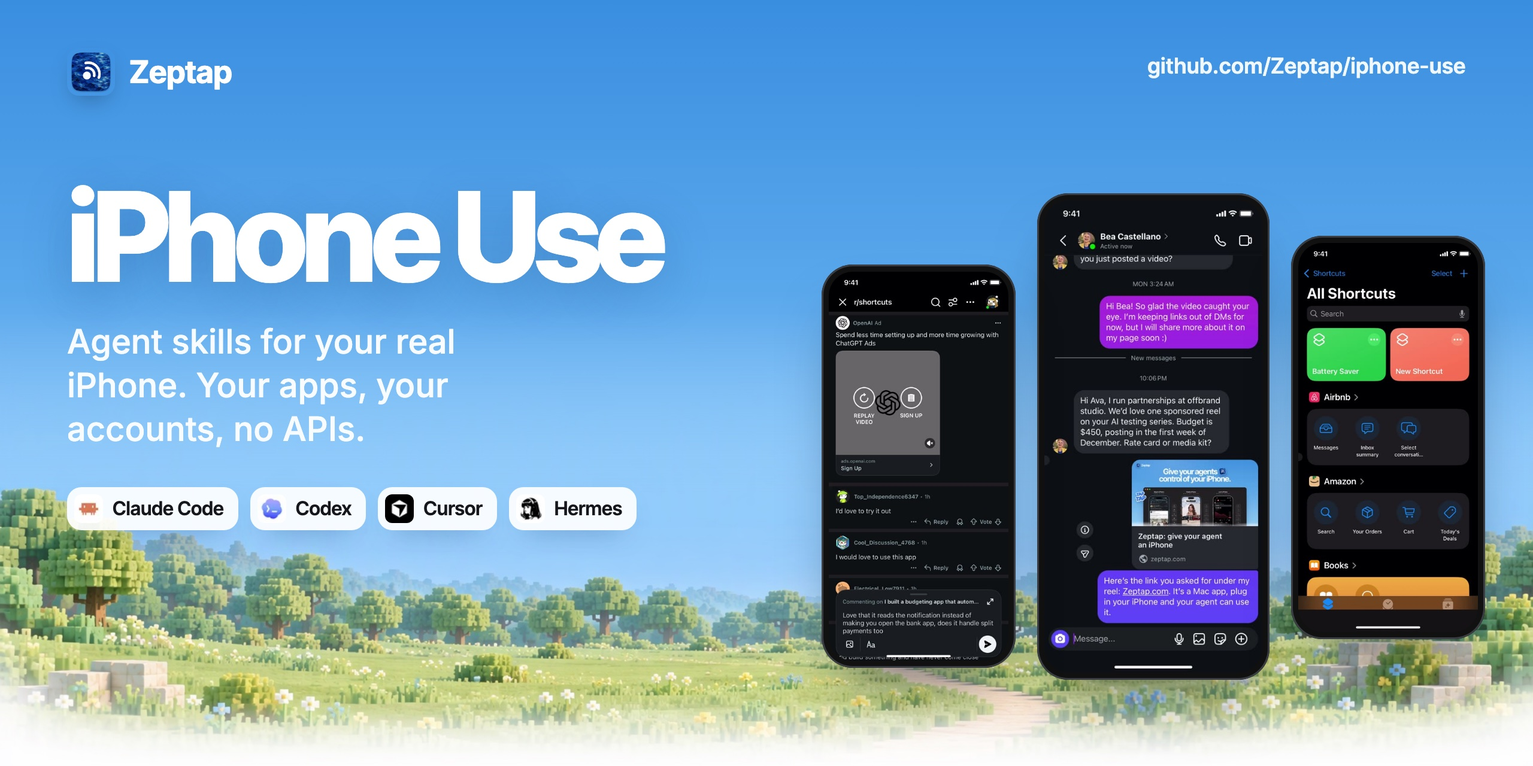
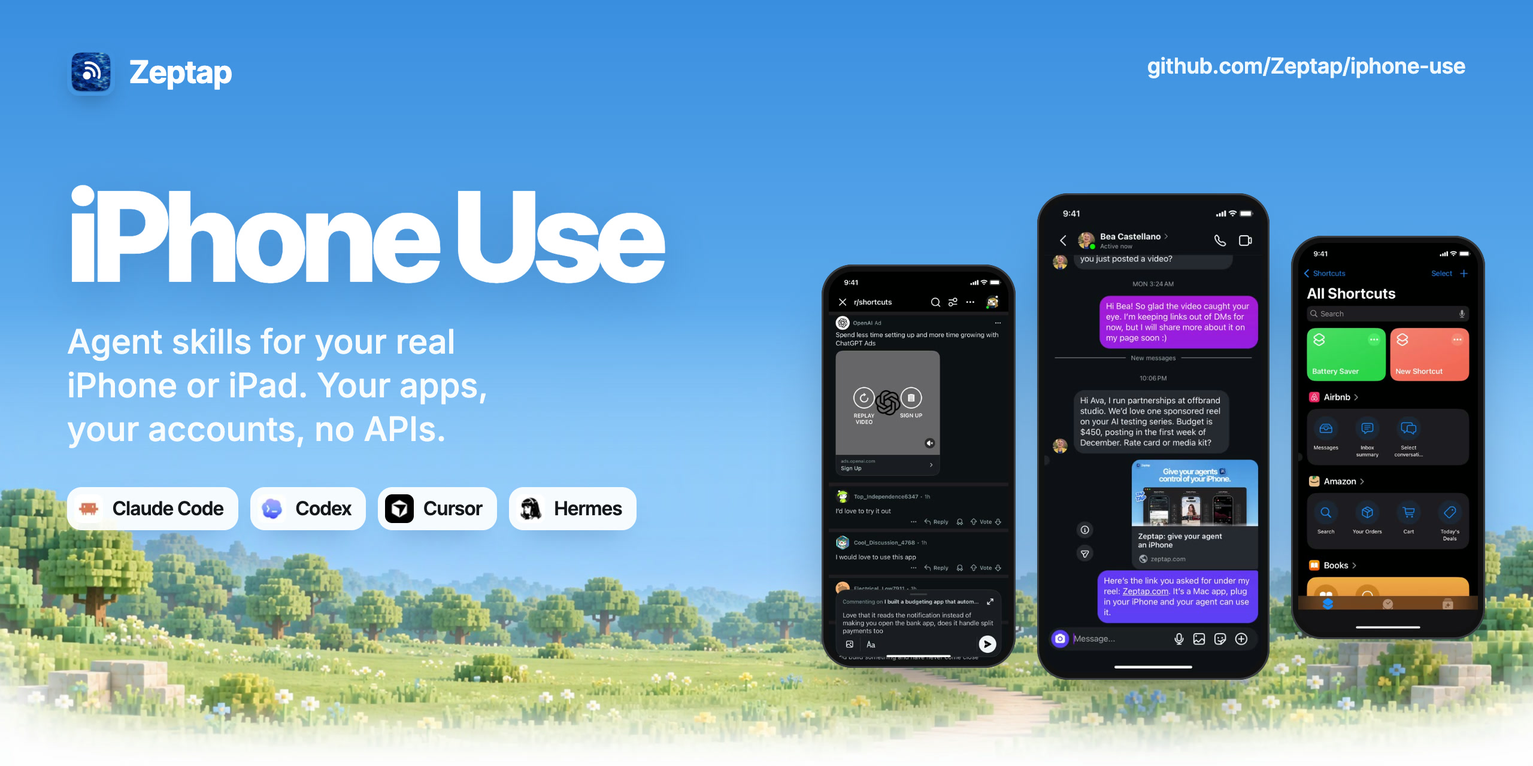
Sync README with zeptap.com/skills, iPhone or iPad copy
- Every skill name links to its live page on zeptap.com/skills
- Fuller, keyword-rich descriptions; drop the Try saying column
- iPhone or iPad copy, up to 5 devices at once, iPad FAQs
- ipad-use: searchable description line (body unchanged)
- Banner and social preview say iPhone or iPad
- Plugin 1.1.0, homepage zeptap.com/skills

Changed region(s): [[0.0312, 0.4688, 0.3125, 0.5938]]

diff --git a/README.md b/README.md
@@ -1,23 +1,24 @@
 <p align="center">
-  <a href="https://zeptap.com/?utm_source=gh"><img src="assets/banner.jpg" alt="iPhone Use. Agent skills for your real iPhone. Your apps, your accounts, no APIs." width="100%"></a>
+  <a href="https://zeptap.com/?utm_source=gh"><img src="assets/banner.jpg" alt="iPhone Use. Agent skills for your real iPhone or iPad. Your apps, your accounts, no APIs." width="100%"></a>
 </p>
 
-<h3 align="center">Your AI agent can now use your iPhone.</h3>
+<h3 align="center">Your AI agent can now use your iPhone or iPad.</h3>
 
 <p align="center">
-  Skills that teach Claude Code, Codex, Cursor, Hermes or any MCP agent to do real jobs on your real iPhone.<br>
-  Your apps, your logged-in accounts, no APIs to connect.
+  37 open skills that teach Claude Code, Codex, Cursor, Hermes, OpenClaw or any MCP agent to do real jobs on your real iPhone or iPad.<br>
+  Your apps, your logged-in accounts, no APIs to connect. Up to 5 devices at once.
 </p>
 
 <p align="center">
   <a href="https://zeptap.com/?utm_source=gh"><b>zeptap.com</b></a> ·
-  <a href="#skills">Browse skills</a> ·
-  <a href="https://zeptap.com/docs?utm_source=gh">Docs</a> ·
+  <a href="https://zeptap.com/skills?utm_source=gh">Browse all skills</a> ·
+  <a href="https://zeptap.com/docs">Docs</a> ·
   <a href="https://github.com/Zeptap/releases/releases/latest/download/Zeptap.dmg">Download for Mac</a>
 </p>
 
 <p align="center">
   <img alt="Skills" src="https://img.shields.io/badge/skills-37-1F6FEB">
+  <img alt="iPhone and iPad" src="https://img.shields.io/badge/iPhone%20%7C%20iPad-real%20devices-111111">
   <img alt="Claude Code" src="https://img.shields.io/badge/Claude%20Code-ready-D97757">
   <img alt="Codex" src="https://img.shields.io/badge/Codex-ready-111111">
   <img alt="Cursor" src="https://img.shields.io/badge/Cursor-ready-3B3B3B">
@@ -29,27 +30,28 @@
 
 ## Why your iPhone
 
-Your life already runs on your phone. Your Instagram, TikTok and Reddit, your DMs, your banking, delivery and travel apps, the app you're building. Most of it has no API, or an API that won't let an agent do the real thing.
+Your life already runs on your phone and tablet. Your Instagram, TikTok and Reddit, your DMs, your delivery and travel apps, your notes, the app you're building. Most of it has no API, or an API that won't let an agent do the real thing.
 
-**Zeptap** is a Mac app that connects your iPhone to your agent. Plug the phone in and your agent sees the screen, opens apps, taps, scrolls and types, inside the accounts you're already logged into. These skills give it the know-how for specific jobs, from warming up a new TikTok to testing your app's sign-up flow.
+**Zeptap** is a Mac app that connects your iPhone or iPad to your agent. Plug it in and your agent sees the screen, opens apps, taps, scrolls and types, inside the accounts you're already logged into. These skills give it the know-how for specific jobs, from warming up a new TikTok to testing your app's sign-up flow.
 
-- **A real iPhone.** Not a simulator, not a cloud phone.
-- **No setup pain.** No Xcode, no developer account, nothing installed on the phone. About two minutes.
-- **Any agent.** Claude Code, Codex, Cursor, Hermes, OpenClaw or any MCP client.
+- **A real iPhone or iPad.** Not a simulator, not an emulator, not a cloud phone.
+- **Up to 5 devices at once.** Run several iPhones and iPads side by side from one Mac.
+- **No setup pain.** No Xcode, no developer account, nothing installed on the device. About two minutes.
+- **Any agent.** Claude Code, Codex, Cursor, Hermes, OpenClaw or any MCP client, on the plan you already pay for.
 - **Your accounts.** It works in the apps you already use, as you.
 
 ## See it run
 
-Real recordings from a real iPhone, sped up.
+Real recordings from a real iPhone, sped up. Tap one to open its page.
 
 <table>
-<tr><td align="center"><img src="assets/demos/tiktok-warmup.gif" width="240" alt="TikTok warm-up running on a real iPhone"><br><sub><b>TikTok warm-up</b></sub></td><td align="center"><img src="assets/demos/reddit-karma-builder.gif" width="240" alt="Reddit karma builder running on a real iPhone"><br><sub><b>Reddit karma builder</b></sub></td><td align="center"><img src="assets/demos/instagram-comment-to-dm.gif" width="240" alt="Comment to DM running on a real iPhone"><br><sub><b>Comment to DM</b></sub></td></tr>
-<tr><td align="center"><img src="assets/demos/short-video-cross-poster.gif" width="240" alt="Cross-poster running on a real iPhone"><br><sub><b>Cross-poster</b></sub></td><td align="center"><img src="assets/demos/ios-real-device-testing.gif" width="240" alt="Real iPhone testing running on a real iPhone"><br><sub><b>Real iPhone testing</b></sub></td><td align="center"><img src="assets/demos/iphone-shortcuts-builder.gif" width="240" alt="Shortcuts builder running on a real iPhone"><br><sub><b>Shortcuts builder</b></sub></td></tr>
+<tr><td align="center"><a href="https://zeptap.com/skills/tiktok-warmup?utm_source=gh"><img src="assets/demos/tiktok-warmup.gif" width="240" alt="TikTok warm-up running on a real iPhone"></a><br><sub><b>TikTok warm-up</b></sub></td><td align="center"><a href="https://zeptap.com/skills/reddit-karma-builder?utm_source=gh"><img src="assets/demos/reddit-karma-builder.gif" width="240" alt="Reddit karma builder running on a real iPhone"></a><br><sub><b>Reddit karma builder</b></sub></td><td align="center"><a href="https://zeptap.com/skills/instagram-comment-to-dm?utm_source=gh"><img src="assets/demos/instagram-comment-to-dm.gif" width="240" alt="Comment to DM running on a real iPhone"></a><br><sub><b>Comment to DM</b></sub></td></tr>
+<tr><td align="center"><a href="https://zeptap.com/skills/short-video-cross-poster?utm_source=gh"><img src="assets/demos/short-video-cross-poster.gif" width="240" alt="Cross-poster running on a real iPhone"></a><br><sub><b>Cross-poster</b></sub></td><td align="center"><a href="https://zeptap.com/skills/ios-real-device-testing?utm_source=gh"><img src="assets/demos/ios-real-device-testing.gif" width="240" alt="Real iPhone testing running on a real iPhone"></a><br><sub><b>Real iPhone testing</b></sub></td><td align="center"><a href="https://zeptap.com/skills/iphone-shortcuts-builder?utm_source=gh"><img src="assets/demos/iphone-shortcuts-builder.gif" width="240" alt="Shortcuts builder running on a real iPhone"></a><br><sub><b>Shortcuts builder</b></sub></td></tr>
 </table>
 
 ## Quick start
 
-**1. Get Zeptap and plug in your iPhone.** [Download for Mac](https://github.com/Zeptap/releases/releases/latest/download/Zeptap.dmg), open it, connect your iPhone with a cable. ([Setup guide](https://zeptap.com/docs/get-started/setup?utm_source=gh))
+**1. Get Zeptap and plug in your iPhone or iPad.** [Download for Mac](https://github.com/Zeptap/releases/releases/latest/download/Zeptap.dmg), open it and connect your device with a cable. ([Setup guide](https://zeptap.com/docs/get-started/setup?utm_source=gh))
 
 **2. Add the skills to your agent.**
 
@@ -59,6 +61,7 @@ npx skills add zeptap/iphone-use
 
 # or just one
 npx skills add zeptap/iphone-use --skill reddit-karma-builder
+npx skills add zeptap/iphone-use --skill ipad-use
 ```
 
 In Claude Code you can also add this repo as a plugin marketplace:
@@ -73,91 +76,91 @@ In Claude Code you can also add this repo as a plugin marketplace:
 ```
 Warm up my new TikTok for my budgeting app
 Find people on Reddit asking for a tool like mine
-Test my sign-up flow on my iPhone and tell me what breaks
+Open Goodnotes on my iPad and export today's notes as a PDF
 ```
 
 ## Skills
 
-Every skill is a plain `SKILL.md` your agent reads. Each one asks a few setup questions the first time, then does the job the same careful way every run.
+Every skill is a plain `SKILL.md` your agent reads. Each one asks a few setup questions the first time, then does the job the same careful way every run. Tap a skill's name for its page on [zeptap.com/skills](https://zeptap.com/skills?utm_source=gh), or the id below it for the file.
 
 ### 🌱 Warm up and grow
 
-New accounts that act like a real person, so your first posts actually get seen.
+New accounts, quiet accounts and accounts that need to show up every day, warmed up and grown like a real person would. [See them on zeptap.com ↗](https://zeptap.com/skills/grow?utm_source=gh)
 
-|  | Skill | What it does | Try saying |
-|---|---|---|---|
-| <img src="assets/icons/instagram-warmup.png" width="44" alt=""> | **[Instagram warm-up](skills/instagram-warmup/SKILL.md)** | Warm up a new Instagram account so your first Reel actually gets seen. | <sub>“Warm up my new Instagram account for home workouts”</sub> |
-| <img src="assets/icons/tiktok-warmup.png" width="44" alt=""> | **[TikTok warm-up](skills/tiktok-warmup/SKILL.md)** | Warm up a new TikTok account so your first video actually gets views. | <sub>“Warm up my new TikTok for my budgeting app”</sub> |
-| <img src="assets/icons/reddit-karma-builder.png" width="44" alt=""> | **[Reddit karma builder](skills/reddit-karma-builder/SKILL.md)** | Build Reddit karma on a new account, one helpful comment at a time. | <sub>“Build karma on my new Reddit account”</sub> |
-| <img src="assets/icons/niche-engagement.png" width="44" alt=""> | **[Niche engagement](skills/niche-engagement/SKILL.md)** | Show up in your niche every day with likes and comments that sound like you. | <sub>“Spend 15 minutes liking and commenting in my niche”</sub> |
-| <img src="assets/icons/linkedin-engagement.png" width="44" alt=""> | **[LinkedIn engagement](skills/linkedin-engagement/SKILL.md)** | Get on the radar of the people you want to reach on LinkedIn. | <sub>“Comment on posts from growth leaders today”</sub> |
+|  | Skill | What it does |
+|---|---|---|
+| <img src="assets/icons/instagram-warmup.png" width="48" alt=""> | **[Instagram warm-up](https://zeptap.com/skills/instagram-warmup?utm_source=gh)**<br><sub>[`instagram-warmup`](skills/instagram-warmup/SKILL.md)</sub> | Automates the Instagram warm-up for a new or dormant account over about 7 days. One short session a day watches niche Reels, then slowly adds likes, follows, saves and comments, set up for your target country, language and time zone. Tells you when to post your first Reel and whether the account is healthy. |
+| <img src="assets/icons/tiktok-warmup.png" width="48" alt=""> | **[TikTok warm-up](https://zeptap.com/skills/tiktok-warmup?utm_source=gh)**<br><sub>[`tiktok-warmup`](skills/tiktok-warmup/SKILL.md)</sub> | Warms up a new TikTok account in about 5 days so the For You page learns your niche. Daily sessions watch niche videos to the end, then add search, likes, follows and a few real comments for your target country and language. Ends with the 700-view health test before you post. |
+| <img src="assets/icons/reddit-karma-builder.png" width="48" alt=""> | **[Reddit karma builder](https://zeptap.com/skills/reddit-karma-builder?utm_source=gh)**<br><sub>[`reddit-karma-builder`](skills/reddit-karma-builder/SKILL.md)</sub> | Builds Reddit karma and trust on a new account, or several, with a phased karma ladder. Helpful comments in subreddits picked from your niche, each sub's rules read first, daily caps and shadowban checks, until the account can post and mention your product. |
+| <img src="assets/icons/niche-engagement.png" width="48" alt=""> | **[Niche engagement](https://zeptap.com/skills/niche-engagement?utm_source=gh)**<br><sub>[`niche-engagement`](skills/niche-engagement/SKILL.md)</sub> | Daily Instagram and TikTok engagement in your niche. Finds fresh posts from the right creators, likes and saves the good ones and leaves comments you approve, within daily caps, so the people you want to reach notice your account. |
+| <img src="assets/icons/linkedin-engagement.png" width="48" alt=""> | **[LinkedIn engagement](https://zeptap.com/skills/linkedin-engagement?utm_source=gh)**<br><sub>[`linkedin-engagement`](skills/linkedin-engagement/SKILL.md)</sub> | LinkedIn engagement from your own profile. Tell it the titles, companies and people you want to reach, and it finds their fresh posts, reacts and leaves 2 to 5 thoughtful comments a day in your voice, each one approved by you. |
 
 ### 🔎 Research
 
-Read Reddit, TikTok and Instagram like an analyst. Buyers, hooks, rivals and what people complain about.
+Read Instagram, TikTok, Reddit and the App Store like an analyst. Hooks, rivals, Reddit threads, buyers and what people complain about. [See them on zeptap.com ↗](https://zeptap.com/skills/research?utm_source=gh)
 
-|  | Skill | What it does | Try saying |
-|---|---|---|---|
-| <img src="assets/icons/competitor-content-check.png" width="44" alt=""> | **[Competitor content check](skills/competitor-content-check/SKILL.md)** | See which posts are winning for your competitors, and why. | <sub>“What's working for Glossier on Instagram right now?”</sub> |
-| <img src="assets/icons/ad-creative-scout.png" width="44" alt=""> | **[Ad creative scout](skills/ad-creative-scout/SKILL.md)** | See the Instagram ads your customers see, and get ideas for your own. | <sub>“What ads are my competitors running?”</sub> |
-| <img src="assets/icons/reddit-research.png" width="44" alt=""> | **[Reddit research](skills/reddit-research/SKILL.md)** | Find out what Reddit really thinks about anything, from the last 30 days. | <sub>“What do founders recommend for cold email?”</sub> |
-| <img src="assets/icons/reddit-lead-finder.png" width="44" alt=""> | **[Reddit lead finder](skills/reddit-lead-finder/SKILL.md)** | Find people on Reddit asking for exactly what you sell, and answer them first. | <sub>“Find people on Reddit asking for a tool like mine”</sub> |
-| <img src="assets/icons/weekly-creator-report.png" width="44" alt=""> | **[Weekly creator report](skills/weekly-creator-report/SKILL.md)** | Your TikTok and Instagram numbers in one weekly note, with what to post next. | <sub>“How did my TikTok do this week?”</sub> |
-| <img src="assets/icons/content-gap-finder.png" width="44" alt=""> | **[Content gap finder](skills/content-gap-finder/SKILL.md)** | Find the video your audience keeps asking for that nobody has made well. | <sub>“What video should I make that nobody has made well?”</sub> |
-| <img src="assets/icons/hook-and-format-scout.png" width="44" alt=""> | **[Hook and format scout](skills/hook-and-format-scout/SKILL.md)** | Fresh hook ideas from the TikToks and Reels winning in your niche right now. | <sub>“What hooks are working for budgeting apps?”</sub> |
-| <img src="assets/icons/content-ideas-from-comments.png" width="44" alt=""> | **[Ideas from comments](skills/content-ideas-from-comments/SKILL.md)** | Turn the questions in viral comments into your next video ideas. | <sub>“Give me video ideas from comments in my niche”</sub> |
-| <img src="assets/icons/app-onboarding-teardown.png" width="44" alt=""> | **[Onboarding teardown](skills/app-onboarding-teardown/SKILL.md)** | See exactly how top apps onboard new users and sell their paywall. | <sub>“Walk me through Duolingo's onboarding”</sub> |
+|  | Skill | What it does |
+|---|---|---|
+| <img src="assets/icons/competitor-content-check.png" width="48" alt=""> | **[Competitor content check](https://zeptap.com/skills/competitor-content-check?utm_source=gh)**<br><sub>[`competitor-content-check`](skills/competitor-content-check/SKILL.md)</sub> | Social media competitor analysis for Instagram Reels and TikTok. Ranks each rival's latest posts by views, breaks down the hook, format, length, audio and call to action, and saves a swipe file of what to copy. |
+| <img src="assets/icons/ad-creative-scout.png" width="48" alt=""> | **[Ad creative scout](https://zeptap.com/skills/ad-creative-scout?utm_source=gh)**<br><sub>[`ad-creative-scout`](skills/ad-creative-scout/SKILL.md)</sub> | An ad spy tool for the Instagram ads your buyers actually see. Primes your account like a buyer in your niche, collects sponsored Reels, Stories and feed ads with their hook, offer and call to action, and turns the winners into 3 static ad concepts. |
+| <img src="assets/icons/reddit-research.png" width="48" alt=""> | **[Reddit research](https://zeptap.com/skills/reddit-research?utm_source=gh)**<br><sub>[`reddit-research`](skills/reddit-research/SKILL.md)</sub> | Reddit research from the last 30 days, read in the signed-in app. Searches your question several ways, reads the busiest threads and returns what people want, verbatim quotes, tools they praise and hate, and live threads worth answering. |
+| <img src="assets/icons/reddit-lead-finder.png" width="48" alt=""> | **[Reddit lead finder](https://zeptap.com/skills/reddit-lead-finder?utm_source=gh)**<br><sub>[`reddit-lead-finder`](skills/reddit-lead-finder/SKILL.md)</sub> | Reddit lead generation from your own account. Finds people asking right now for a product like yours, scores each thread for buying intent, flags threads that also rank on Google, and drafts a reply that helps first and mentions your product second, disclosed. |
+| <img src="assets/icons/weekly-creator-report.png" width="48" alt=""> | **[Weekly creator report](https://zeptap.com/skills/weekly-creator-report?utm_source=gh)**<br><sub>[`weekly-creator-report`](skills/weekly-creator-report/SKILL.md)</sub> | TikTok analytics and Instagram insights in one weekly report. Reads TikTok Studio and Instagram's professional dashboard on your own accounts and writes up the numbers, your best post, why it worked and what to post next. |
+| <img src="assets/icons/content-gap-finder.png" width="48" alt=""> | **[Content gap finder](https://zeptap.com/skills/content-gap-finder?utm_source=gh)**<br><sub>[`content-gap-finder`](skills/content-gap-finder/SKILL.md)</sub> | Finds a video topic with proven demand and weak supply. Reads how people describe a problem on Reddit, checks what TikTok and Instagram show for those exact words, and returns the gap, a format to copy and three hooks. |
+| <img src="assets/icons/hook-and-format-scout.png" width="48" alt=""> | **[Hook and format scout](https://zeptap.com/skills/hook-and-format-scout?utm_source=gh)**<br><sub>[`hook-and-format-scout`](skills/hook-and-format-scout/SKILL.md)</sub> | Finds the hooks and formats winning in your niche this week on TikTok and Instagram. Reads the top posts' opening lines, formats, sounds and view counts, then writes a hook for your own product. |
+| <img src="assets/icons/content-ideas-from-comments.png" width="48" alt=""> | **[Ideas from comments](https://zeptap.com/skills/content-ideas-from-comments?utm_source=gh)**<br><sub>[`content-ideas-from-comments`](skills/content-ideas-from-comments/SKILL.md)</sub> | Turns the comments under viral TikToks and Reels into your next video ideas. Keeps only the real unanswered questions, ranks them and tells you which one to film first. |
+| <img src="assets/icons/app-onboarding-teardown.png" width="48" alt=""> | **[Onboarding teardown](https://zeptap.com/skills/app-onboarding-teardown?utm_source=gh)**<br><sub>[`app-onboarding-teardown`](skills/app-onboarding-teardown/SKILL.md)</sub> | App onboarding and paywall teardown for any iPhone app. Walks from first launch to the paywall screen by screen, with screenshots, and writes up the copy, permission asks, price, free trial, plan layout and dark patterns. |
 
 ### 📮 Post everywhere
 
-Reels, Stories, TikToks, Shorts, LinkedIn and Reddit posts, with a caption written for each app.
+Instagram, TikTok, YouTube, LinkedIn and Reddit, posted from your own accounts with a caption written for each app. [See them on zeptap.com ↗](https://zeptap.com/skills/post?utm_source=gh)
 
-|  | Skill | What it does | Try saying |
-|---|---|---|---|
-| <img src="assets/icons/instagram-poster.png" width="44" alt=""> | **[Instagram poster](skills/instagram-poster/SKILL.md)** | Post Reels, photos and carousels to Instagram, caption and all. | <sub>“Post my newest Reel with a caption about Friday's drop”</sub> |
-| <img src="assets/icons/instagram-story-poster.png" width="44" alt=""> | **[Instagram Story link sticker](skills/instagram-story-poster/SKILL.md)** | Instagram Stories with link stickers, polls and questions, posted for you. | <sub>“Post my latest photo to my story with a link to my shop”</sub> |
-| <img src="assets/icons/tiktok-uploader.png" width="44" alt=""> | **[TikTok uploader](skills/tiktok-uploader/SKILL.md)** | Upload to TikTok with a caption people actually search for. | <sub>“Post my newest video to TikTok”</sub> |
-| <img src="assets/icons/youtube-shorts-uploader.png" width="44" alt=""> | **[YouTube Shorts uploader](skills/youtube-shorts-uploader/SKILL.md)** | Turn your vertical videos into YouTube Shorts, titled and published. | <sub>“Upload my newest video as a YouTube Short”</sub> |
-| <img src="assets/icons/linkedin-poster.png" width="44" alt=""> | **[LinkedIn poster](skills/linkedin-poster/SKILL.md)** | Write and post LinkedIn updates that sound like you, or schedule them. | <sub>“Turn my release notes into a LinkedIn post”</sub> |
-| <img src="assets/icons/reddit-poster.png" width="44" alt=""> | **[Reddit post writer](skills/reddit-poster/SKILL.md)** | Write Reddit posts that fit each subreddit's rules, and stay up. | <sub>“Share how I got my first 50 users in r/SideProject”</sub> |
-| <img src="assets/icons/short-video-cross-poster.png" width="44" alt=""> | **[Short video cross-poster](skills/short-video-cross-poster/SKILL.md)** | Post one video to TikTok, Reels and Shorts at once, each with its own caption. | <sub>“Post this video on TikTok, Reels and Shorts”</sub> |
-| <img src="assets/icons/multi-account-poster.png" width="44" alt=""> | **[Multi-account poster](skills/multi-account-poster/SKILL.md)** | Post to all your Instagram and TikTok accounts without mixing them up. | <sub>“Post this Reel on both of my brand accounts”</sub> |
+|  | Skill | What it does |
+|---|---|---|
+| <img src="assets/icons/instagram-poster.png" width="48" alt=""> | **[Instagram poster](https://zeptap.com/skills/instagram-poster?utm_source=gh)**<br><sub>[`instagram-poster`](skills/instagram-poster/SKILL.md)</sub> | Instagram auto posting for Reels, photos and carousels from your camera roll. Writes the caption and hashtags, adds location, tagged people and cover, then posts or saves a draft once you approve. Works for personal and creator accounts. |
+| <img src="assets/icons/instagram-story-poster.png" width="48" alt=""> | **[Instagram Story link sticker](https://zeptap.com/skills/instagram-story-poster?utm_source=gh)**<br><sub>[`instagram-story-poster`](skills/instagram-story-poster/SKILL.md)</sub> | Posts Instagram Stories with link stickers, polls, question boxes, mentions and location, the stickers Instagram's API can't add. Writes the sticker text and call to action, builds the Story and posts it after your yes. |
+| <img src="assets/icons/tiktok-uploader.png" width="48" alt=""> | **[TikTok uploader](https://zeptap.com/skills/tiktok-uploader?utm_source=gh)**<br><sub>[`tiktok-uploader`](skills/tiktok-uploader/SKILL.md)</sub> | TikTok auto upload from your camera roll with a caption written for TikTok search. Sets hashtags, comments, the AI-generated label and branded content disclosure, then posts publicly or saves to Drafts. |
+| <img src="assets/icons/youtube-shorts-uploader.png" width="48" alt=""> | **[YouTube Shorts uploader](https://zeptap.com/skills/youtube-shorts-uploader?utm_source=gh)**<br><sub>[`youtube-shorts-uploader`](skills/youtube-shorts-uploader/SKILL.md)</sub> | Uploads vertical videos as YouTube Shorts with a search-friendly title, audience and visibility set. No Google Cloud project, OAuth setup or API audit, because the YouTube app is already signed in. |
+| <img src="assets/icons/linkedin-poster.png" width="48" alt=""> | **[LinkedIn poster](https://zeptap.com/skills/linkedin-poster?utm_source=gh)**<br><sub>[`linkedin-poster`](skills/linkedin-poster/SKILL.md)</sub> | A LinkedIn post generator that writes in your voice, with a strong first line, clean line breaks and a few hashtags, then posts or schedules it from your personal profile after your approval. |
+| <img src="assets/icons/reddit-poster.png" width="48" alt=""> | **[Reddit post writer](https://zeptap.com/skills/reddit-poster?utm_source=gh)**<br><sub>[`reddit-poster`](skills/reddit-poster/SKILL.md)</sub> | Writes Reddit posts that fit each subreddit. Reads the rules and top posts, writes the title and body in the sub's style, picks the flair and stops at Post for your yes, so the post stays up. |
+| <img src="assets/icons/short-video-cross-poster.png" width="48" alt=""> | **[Short video cross-poster](https://zeptap.com/skills/short-video-cross-poster?utm_source=gh)**<br><sub>[`short-video-cross-poster`](skills/short-video-cross-poster/SKILL.md)</sub> | Cross-posts one vertical video to TikTok, Instagram Reels and YouTube Shorts, plus LinkedIn if you want, each with its own native caption and settings. Drafts first, one approval before anything goes public. |
+| <img src="assets/icons/multi-account-poster.png" width="48" alt=""> | **[Multi-account poster](https://zeptap.com/skills/multi-account-poster?utm_source=gh)**<br><sub>[`multi-account-poster`](skills/multi-account-poster/SKILL.md)</sub> | Posts to several Instagram and TikTok accounts without mixing them up, switching accounts in the app or across up to 5 iPhones on one Mac. A caption adapted to each account and an approval per account. Built for agencies, brands and creators. |
 
 ### 💬 Replies and DMs
 
-DMs, comments and brand deals, answered in your voice.
+DMs, comments and brand deals, answered in your voice. [See them on zeptap.com ↗](https://zeptap.com/skills/inbox?utm_source=gh)
 
-|  | Skill | What it does | Try saying |
-|---|---|---|---|
-| <img src="assets/icons/comment-replies.png" width="44" alt=""> | **[Comment replies](skills/comment-replies/SKILL.md)** | Reply to every comment on your Reels and YouTube videos in your own voice. | <sub>“Reply to the comments on my last Reel”</sub> |
-| <img src="assets/icons/instagram-dm-replies.png" width="44" alt=""> | **[Instagram DM replies](skills/instagram-dm-replies/SKILL.md)** | Clear your Instagram DMs, answer buyers and catch every brand deal. | <sub>“Reply to my Instagram DMs from today”</sub> |
-| <img src="assets/icons/instagram-comment-to-dm.png" width="44" alt=""> | **[Comment to DM](skills/instagram-comment-to-dm/SKILL.md)** | Send your link to everyone who comments a keyword, on any Instagram account. | <sub>“Send the link to everyone who commented LINK”</sub> |
+|  | Skill | What it does |
+|---|---|---|
+| <img src="assets/icons/comment-replies.png" width="48" alt=""> | **[Comment replies](https://zeptap.com/skills/comment-replies?utm_source=gh)**<br><sub>[`comment-replies`](skills/comment-replies/SKILL.md)</sub> | Replies to comments on your Instagram Reels and YouTube videos in your own voice. Reads the unanswered comments, skips spam, drafts replies as one batch for approval and posts each under the right comment. |
+| <img src="assets/icons/instagram-dm-replies.png" width="48" alt=""> | **[Instagram DM replies](https://zeptap.com/skills/instagram-dm-replies?utm_source=gh)**<br><sub>[`instagram-dm-replies`](skills/instagram-dm-replies/SKILL.md)</sub> | Instagram DM automation for personal and creator accounts. Sorts unread chats and message requests into buyers, brand deals, complaints, fans and spam, drafts replies from your facts and sends only what you approve. |
+| <img src="assets/icons/instagram-comment-to-dm.png" width="48" alt=""> | **[Comment to DM](https://zeptap.com/skills/instagram-comment-to-dm?utm_source=gh)**<br><sub>[`instagram-comment-to-dm`](skills/instagram-comment-to-dm/SKILL.md)</sub> | A ManyChat alternative that works on any Instagram account. Sends your link by DM to everyone who commented a keyword like LINK or GUIDE, skips people already messaged and sends in approved batches. |
 
 ### 🧪 App testing
 
-Test your iOS app on a real iPhone. No Xcode, no developer account.
+Test your iOS app on a real iPhone, the way your users do. No Xcode, no developer account. [See them on zeptap.com ↗](https://zeptap.com/skills/test?utm_source=gh)
 
-|  | Skill | What it does | Try saying |
-|---|---|---|---|
-| <img src="assets/icons/ios-real-device-testing.png" width="44" alt=""> | **[Real iPhone app testing](skills/ios-real-device-testing/SKILL.md)** | Test your app on a real iPhone the way your users do. No Xcode needed. | <sub>“Test my sign-up flow on my iPhone and tell me what breaks”</sub> |
-| <img src="assets/icons/ios-bug-repro.png" width="44" alt=""> | **[iPhone bug reproduction](skills/ios-bug-repro/SKILL.md)** | Reproduce bug reports on a real iPhone and get an answer ready for the ticket. | <sub>“Can you reproduce this bug on my iPhone?”</sub> |
-| <img src="assets/icons/ios-dynamic-type-check.png" width="44" alt=""> | **[Dynamic Type check](skills/ios-dynamic-type-check/SKILL.md)** | See if your app still works when people turn up the text size. | <sub>“Check my app at the largest text size”</sub> |
-| <img src="assets/icons/testflight-smoke-test.png" width="44" alt=""> | **[TestFlight smoke test](skills/testflight-smoke-test/SKILL.md)** | Check every new TestFlight build works before your testers open it. | <sub>“Install the latest TestFlight build and check it works”</sub> |
-| <img src="assets/icons/app-store-rank-check.png" width="44" alt=""> | **[App Store keyword rankings](skills/app-store-rank-check/SKILL.md)** | See where your app really ranks in the App Store for any keyword. | <sub>“Where does my app rank for habit tracker?”</sub> |
-| <img src="assets/icons/app-review-digest.png" width="44" alt=""> | **[App Store review analysis](skills/app-review-digest/SKILL.md)** | Turn App Store reviews into a clear list of what to fix first. | <sub>“What are people complaining about in my app?”</sub> |
+|  | Skill | What it does |
+|---|---|---|
+| <img src="assets/icons/ios-real-device-testing.png" width="48" alt=""> | **[Real iPhone app testing](https://zeptap.com/skills/ios-real-device-testing?utm_source=gh)**<br><sub>[`ios-real-device-testing`](skills/ios-real-device-testing/SKILL.md)</sub> | iOS app testing on a real iPhone, not a simulator, with no Xcode needed. Runs sign-up, onboarding, the paywall, sandbox purchases, push, camera and deep links like a QA tester, and reports each step with a screenshot and the first break. |
+| <img src="assets/icons/ios-bug-repro.png" width="48" alt=""> | **[iPhone bug reproduction](https://zeptap.com/skills/ios-bug-repro?utm_source=gh)**<br><sub>[`ios-bug-repro`](skills/ios-bug-repro/SKILL.md)</sub> | Reproduces bug reports on a real iPhone. Follows the exact steps several times and returns a verdict with screenshots, device model, iOS version and app version, ready to paste into GitHub, Linear or Jira. |
+| <img src="assets/icons/ios-dynamic-type-check.png" width="48" alt=""> | **[Dynamic Type check](https://zeptap.com/skills/ios-dynamic-type-check?utm_source=gh)**<br><sub>[`ios-dynamic-type-check`](skills/ios-dynamic-type-check/SKILL.md)</sub> | Dynamic Type and accessibility text testing on a real iPhone. Raises the text size up to the largest accessibility sizes, walks your key screens, flags clipped or overlapping text and controls pushed off screen, then puts the setting back. |
+| <img src="assets/icons/testflight-smoke-test.png" width="48" alt=""> | **[TestFlight smoke test](https://zeptap.com/skills/testflight-smoke-test?utm_source=gh)**<br><sub>[`testflight-smoke-test`](skills/testflight-smoke-test/SKILL.md)</sub> | TestFlight smoke testing on a real iPhone. Installs the newest build, checks the build number, signs in with a test account, runs the core flow and this build's changes, and calls pass or fail for each step. |
+| <img src="assets/icons/app-store-rank-check.png" width="48" alt=""> | **[App Store keyword rankings](https://zeptap.com/skills/app-store-rank-check?utm_source=gh)**<br><sub>[`app-store-rank-check`](skills/app-store-rank-check/SKILL.md)</sub> | App Store keyword rank tracking from a real iPhone. Searches each keyword in the App Store app, skips the ads, records the top organic apps and your position, and says which keywords you can win. |
+| <img src="assets/icons/app-review-digest.png" width="48" alt=""> | **[App Store review analysis](https://zeptap.com/skills/app-review-digest?utm_source=gh)**<br><sub>[`app-review-digest`](skills/app-review-digest/SKILL.md)</sub> | App Store review analysis for your app or a competitor's. Reads the most critical and most recent reviews, groups complaints into themes with counts and quotes, and ranks what to fix first. |
 
 ### ☕ Everyday
 
-The small jobs you do on your phone every week.
+Errands, price checks, shortcuts and anything else you do in an app on your iPhone or iPad. [See them on zeptap.com ↗](https://zeptap.com/skills/everyday?utm_source=gh)
 
-|  | Skill | What it does | Try saying |
-|---|---|---|---|
-| <img src="assets/icons/iphone-use.png" width="44" alt=""> | **[iPhone automation](skills/iphone-use/SKILL.md)** | Your AI agent can use any app on your iPhone, just like you do. | <sub>“Turn this TikTok recipe into a shopping list in Notes”</sub> |
-| <img src="assets/icons/ipad-use.png" width="44" alt=""> | **[iPad automation](skills/ipad-use/SKILL.md)** | Your AI agent can use any app on your iPad, just like you do. | <sub>“Open Goodnotes on my iPad and export today's notes as a PDF”</sub> |
-| <img src="assets/icons/iphone-errands.png" width="44" alt=""> | **[Reorders, rides and carts](skills/iphone-errands/SKILL.md)** | Line up your usual Amazon order or airport Uber in seconds. | <sub>“Reorder my usual coffee pods on Amazon”</sub> |
-| <img src="assets/icons/iphone-shortcuts-builder.png" width="44" alt=""> | **[iPhone Shortcuts builder](skills/iphone-shortcuts-builder/SKILL.md)** | Describe the iPhone Shortcut you want and get it built and tested. | <sub>“Make a shortcut that saves any link to my Ideas note”</sub> |
-| <img src="assets/icons/delivery-price-check.png" width="44" alt=""> | **[Uber Eats vs DoorDash](skills/delivery-price-check/SKILL.md)** | Find out if Uber Eats or DoorDash is cheaper for tonight's order. | <sub>“Is a large pepperoni cheaper on Uber Eats or DoorDash?”</sub> |
-| <img src="assets/icons/flight-price-check.png" width="44" alt=""> | **[Flight price checker](skills/flight-price-check/SKILL.md)** | Check flight prices across your favourite travel apps and know whether to book now or wait. | <sub>“Should I book LAX to JFK for Dec 18 now or wait?”</sub> |
+|  | Skill | What it does |
+|---|---|---|
+| <img src="assets/icons/iphone-use.png" width="48" alt=""> | **[iPhone automation](https://zeptap.com/skills/iphone-use?utm_source=gh)**<br><sub>[`iphone-use`](skills/iphone-use/SKILL.md)</sub> | iPhone automation in any app. Your agent opens apps, reads the screen, taps, scrolls and types in your signed-in accounts, then checks the result. The base skill the others build on, for any job in an app with no API. |
+| <img src="assets/icons/ipad-use.png" width="48" alt=""> | **[iPad automation](https://zeptap.com/skills/ipad-use?utm_source=gh)**<br><sub>[`ipad-use`](skills/ipad-use/SKILL.md)</sub> | iPad automation in any app, in your signed-in accounts. Handles what's different on an iPad, from landscape screens, sidebars and columns to the Dock, Split View and the pointer, and runs alongside your iPhones on the same Mac. |
+| <img src="assets/icons/iphone-errands.png" width="48" alt=""> | **[Reorders, rides and carts](https://zeptap.com/skills/iphone-errands?utm_source=gh)**<br><sub>[`iphone-errands`](skills/iphone-errands/SKILL.md)</sub> | Prepares everyday orders in your own apps. Reorders the exact Amazon item you bought before, sets up an airport Uber with the right terminal and time, or rebuilds your usual food order, then stops at the summary so you check and pay. |
+| <img src="assets/icons/iphone-shortcuts-builder.png" width="48" alt=""> | **[iPhone Shortcuts builder](https://zeptap.com/skills/iphone-shortcuts-builder?utm_source=gh)**<br><sub>[`iphone-shortcuts-builder`](skills/iphone-shortcuts-builder/SKILL.md)</sub> | Builds any Apple Shortcut from one sentence. Adds the actions in the Shortcuts app, links each output to the next, sets Share Sheet input, names it and tests it in the app where you'll use it. |
+| <img src="assets/icons/delivery-price-check.png" width="48" alt=""> | **[Uber Eats vs DoorDash](https://zeptap.com/skills/delivery-price-check?utm_source=gh)**<br><sub>[`delivery-price-check`](skills/delivery-price-check/SKILL.md)</sub> | Compares the same food order on Uber Eats, DoorDash and any other delivery app you have. Reads item price, fees, member discounts and arrival time at checkout for your account and address, and says where to order. |
+| <img src="assets/icons/flight-price-check.png" width="48" alt=""> | **[Flight price checker](https://zeptap.com/skills/flight-price-check?utm_source=gh)**<br><sub>[`flight-price-check`](skills/flight-price-check/SKILL.md)</sub> | Flight price comparison across the travel apps you choose, like Skyscanner, Google Flights, Kayak or Hopper. Reads the cheapest fares and any price prediction, then says book now, wait or move your dates. Stops before booking. |
 
 <sub>The `instagram`, `tiktok` and `reddit` folders are app guides. They hold the shared rules and screen notes that the job skills above load first.</sub>
 
@@ -165,14 +168,26 @@ The small jobs you do on your phone every week.
 
 <p align="center"><img src="assets/how-it-works.jpg" alt="A Mac and an iPhone joined by one cable on a floating voxel island" width="80%"></p>
 
-1. **Zeptap runs on your Mac** and shows your agent the iPhone screen, with tools to tap, swipe, type and open apps.
+1. **Zeptap runs on your Mac** and shows your agent the iPhone or iPad screen, with tools to tap, swipe, type and open apps.
 2. **A skill tells the agent how to do one job well.** Which screens to expect, what to check, when to stop and what to report.
 3. **You stay in charge.** You watch every tap on your Mac. Skills that post or send follow the mode you pick on the first run.
 
 ## FAQ
 
+<details><summary><b>Can an AI agent control my iPhone or iPad?</b></summary><br>
+Yes. With Zeptap on your Mac, Claude Code, Codex, Cursor and other agents see your real device's screen and open apps, tap, scroll and type in the accounts you're signed into, including apps that have no API.
+</details>
+
 <details><summary><b>Do I need Xcode or an Apple developer account?</b></summary><br>
-No. Zeptap is a Mac app. Plug in your iPhone and it works, with nothing installed on the phone.
+No. Zeptap is a Mac app. Plug in your iPhone or iPad and it works, with nothing installed on the device.
+</details>
+
+<details><summary><b>Does it work on iPad?</b></summary><br>
+Yes. The <a href="https://zeptap.com/skills/ipad-use?utm_source=gh">iPad automation</a> skill lets your agent use any app on your iPad, handling landscape screens, sidebars, the Dock and Split View. iPhones and iPads can be connected to the same Mac at once.
+</details>
+
+<details><summary><b>How many devices can I run at once?</b></summary><br>
+Up to 5 iPhones or iPads on one Mac. Each skill call names the device it runs on, so jobs on different devices never mix.
 </details>
 
 <details><summary><b>Which agents work with these skills?</b></summary><br>
@@ -180,11 +195,11 @@ Claude Code, Claude Desktop, Codex, Cursor, Hermes, OpenClaw and any MCP client.
 </details>
 
 <details><summary><b>Is it a cloud phone or an emulator?</b></summary><br>
-Neither. It's your own iPhone on your desk, with your real apps and logged-in accounts. Up to 5 iPhones on one Mac.
+Neither. It's your own iPhone or iPad on your desk, with your real apps and logged-in accounts.
 </details>
 
 <details><summary><b>Can I use the skills without Zeptap?</b></summary><br>
-Every skill has a "Without Zeptap" section. Your agent still gives you the plan, the checklist or the drafts, and tells you how to connect an iPhone to do the job for real.
+Every skill has a "Without Zeptap" path. Your agent still gives you the plan, the checklist or the drafts, and tells you how to connect a device to do the job for real.
 </details>
 
 <details><summary><b>Will warm-ups or Reddit skills get my account banned?</b></summary><br>
@@ -197,9 +212,9 @@ The skills are free and open. Zeptap itself is pay once, use it for life. See <a
 
 ## About Zeptap
 
-[Zeptap](https://zeptap.com/?utm_source=gh) lets AI agents use your iPhone, just like you do. Agents already browse the web and use computers. The phone is where people live, so that's where your agent should be able to work too.
+[Zeptap](https://zeptap.com/?utm_source=gh) lets AI agents use your iPhone or iPad, just like you do. Agents already browse the web and use computers. Your phone is where you live, so that's where your agent should be able to work too.
 
-**[Download for Mac](https://github.com/Zeptap/releases/releases/latest/download/Zeptap.dmg)** · **[zeptap.com](https://zeptap.com/?utm_source=gh)** · **[All skills](#skills)**
+**[Download for Mac](https://github.com/Zeptap/releases/releases/latest/download/Zeptap.dmg)** · **[zeptap.com](https://zeptap.com/?utm_source=gh)** · **[All skills](https://zeptap.com/skills?utm_source=gh)** · **[Docs](https://zeptap.com/docs)**
 
 ## Contributing
 

diff --git a/CONTRIBUTING.md b/CONTRIBUTING.md
@@ -1,6 +1,6 @@
 # Contributing
 
-Thanks for helping make iPhone agents more useful. Good contributions here are small, tested on a real iPhone and written so an agent can follow them without guessing.
+Thanks for helping make iPhone and iPad agents more useful. Good contributions here are small, tested on a real device and written so an agent can follow them without guessing.
 
 ## What we welcome
 
@@ -13,7 +13,7 @@ Thanks for helping make iPhone agents more useful. Good contributions here are s
 - Lives in `skills/<skill-id>/SKILL.md`. The `name` in the frontmatter equals the folder name (lowercase, hyphens).
 - The `description` says what it does and when to use it, in plain words, under 1,024 characters, with no angle brackets.
 - Runs in order: setup questions on the first run only, the steps, stop rules, then a short report.
-- Has a "Without Zeptap" section, so it still helps people who haven't connected an iPhone.
+- Has a "Without Zeptap" section, so it still helps people who haven't connected an iPhone or iPad.
 - Never asks the agent to do anything you wouldn't do yourself. No vote manipulation, no fake accounts, no spam.
 
 ## Before you open a pull request
@@ -22,7 +22,7 @@ Thanks for helping make iPhone agents more useful. Good contributions here are s
 python3 scripts/check_skills.py
 ```
 
-It must say `0 problems`. Describe what you tested, on which iPhone and iOS version.
+It must say `0 problems`. Describe what you tested, on which iPhone or iPad and which iOS or iPadOS version.
 
 ## Questions
 

diff --git a/skills/ipad-use/SKILL.md b/skills/ipad-use/SKILL.md
@@ -1,6 +1,6 @@
 ---
 name: ipad-use
-description: Use the user's real iPad like a person would - open apps, read the screen, tap, scroll and type in their signed-in apps, then check the result - for jobs in apps with no API. Use when the user asks to do something on their iPad or in an iPad app ("do this on my iPad", "open Goodnotes on my iPad and...", "control my iPad", "check X on my iPad"), or when Zeptap's list_phones shows an iPad. Works on your real iPad with Zeptap; without it, plans the task and explains how to connect. For iPhones use iphone-use. Not for the iOS Simulator, Sidecar, Universal Control, Android or Mac automation.
+description: Use the user's real iPad like a person would, on the user's real iPad with Zeptap - open apps, read the screen, tap, scroll and type in their signed-in apps, then check the result. For jobs that live inside iPad apps with no API, which simulators, browsers and cloud devices can't reach. Handles what's different on an iPad - landscape screens, sidebars and columns, the Dock, Split View and the iPad pointer. Without Zeptap it plans the task step by step and explains how to connect the iPad in about two minutes. Use for "do this on my iPad", "open Goodnotes on my iPad and...", "control my iPad", "automate this on my iPad", "check X on my iPad", or when Zeptap's list_phones shows an iPad. Works alongside iPhones on the same Mac. For iPhones use iphone-use; not for the iOS Simulator, Sidecar, Universal Control, Android or Mac automation.
 ---
 
 # iPad use

diff --git a/SECURITY.md b/SECURITY.md
@@ -6,7 +6,7 @@ Plain-text agent skills (`SKILL.md` files) and a small Python checker (`scripts/
 
 ## How the skills act
 
-The skills drive a real iPhone through Zeptap, in the accounts already signed in on that phone. They are written to:
+The skills drive a real iPhone or iPad through Zeptap, in the accounts already signed in on that device. They are written to:
 
 - ask before anything that spends money, deletes data or changes account settings;
 - never enter passwords, payment details or one-time codes;
